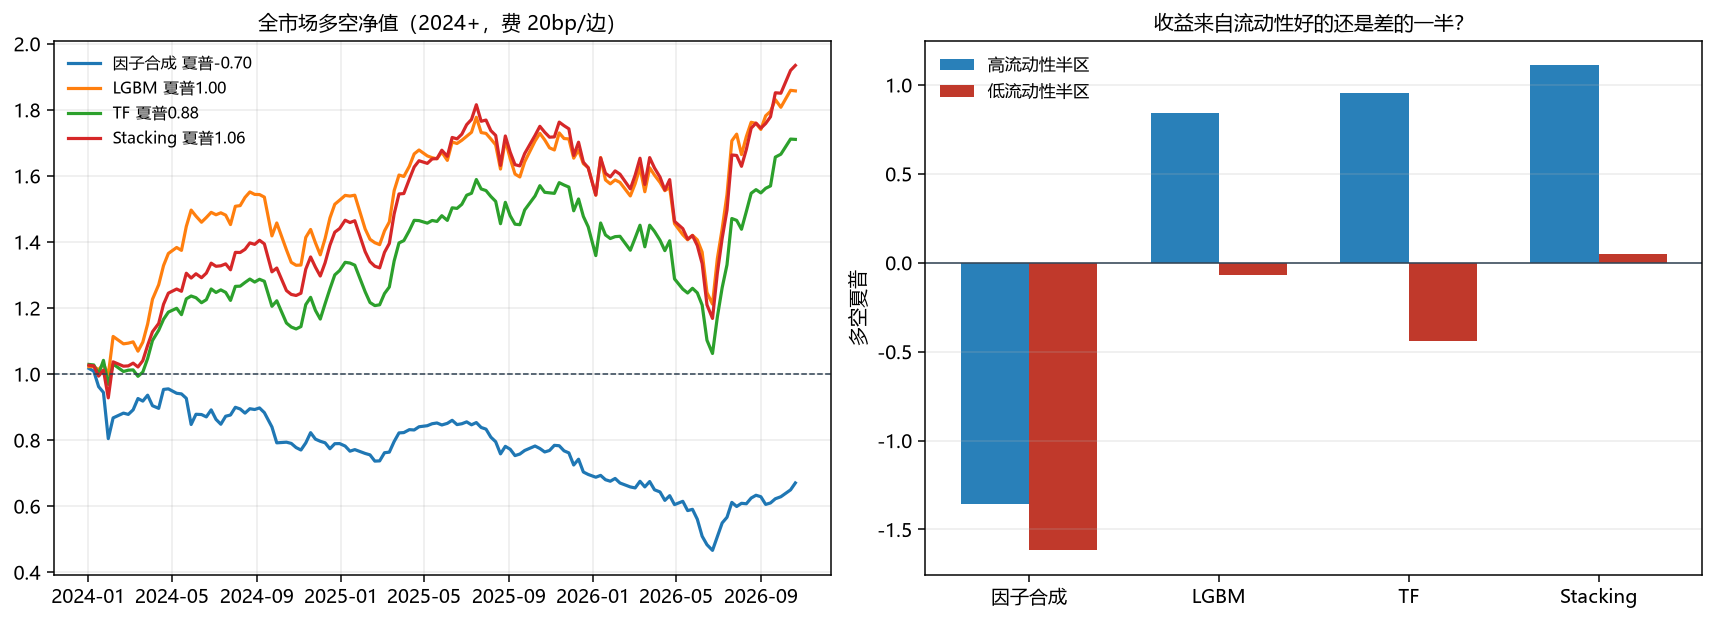
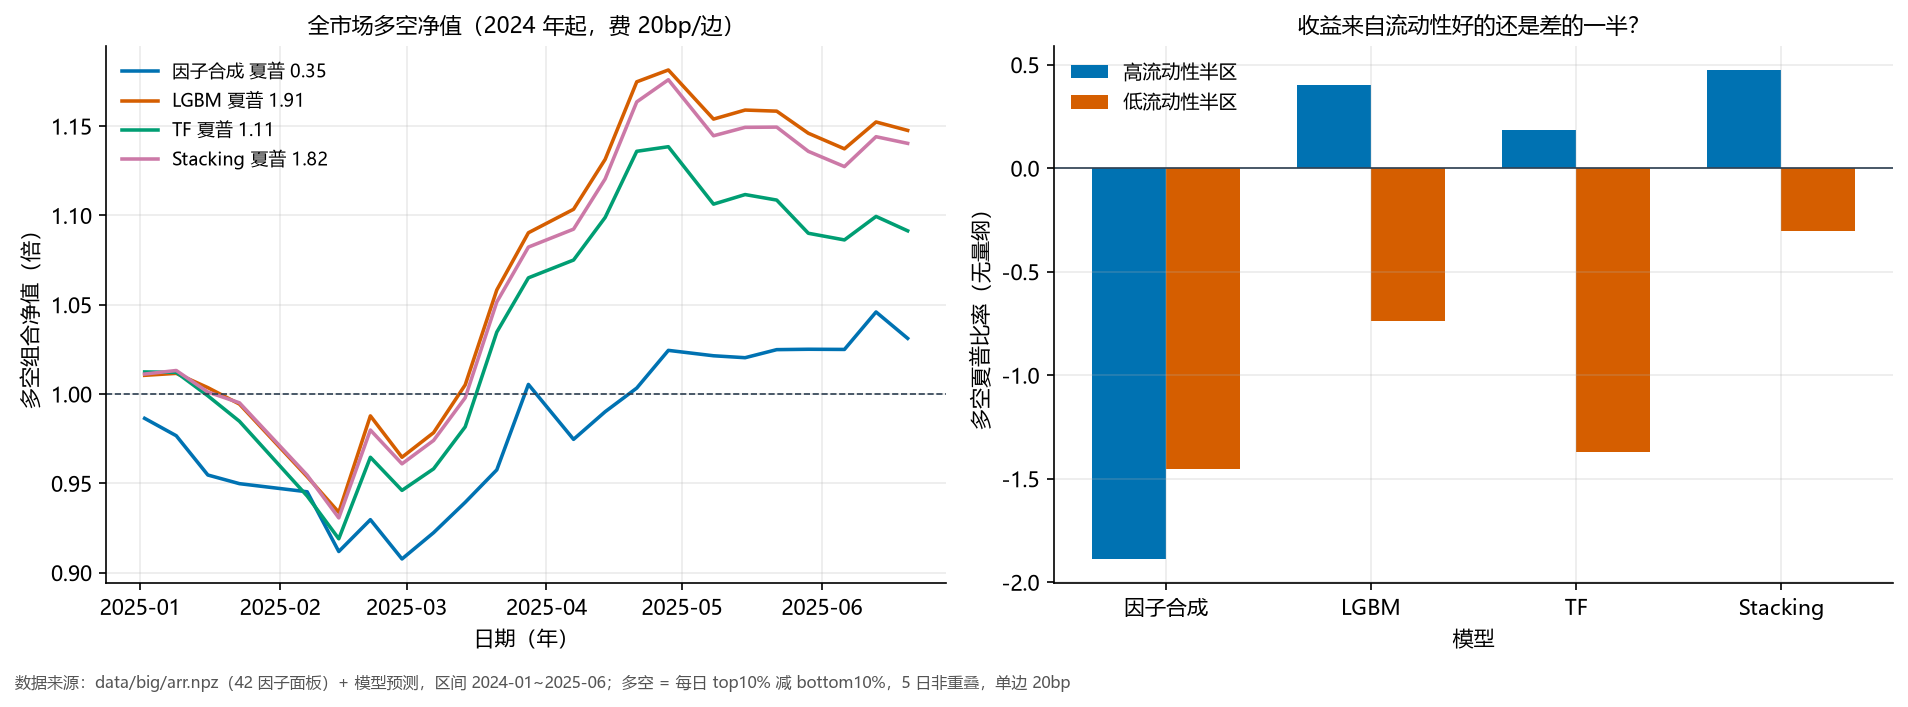
style: factor_scorecard 与 big_eval 接入 figstyle（中文轴/单位/来源脚注）

diff --git a/scripts/big_eval.py b/scripts/big_eval.py
@@ -6,6 +6,7 @@ import numpy as np, pandas as pd
 import matplotlib
 matplotlib.use('Agg')
 import matplotlib.pyplot as plt
+from figstyle import PALETTE
 plt.rcParams['font.sans-serif'] = ['Microsoft YaHei']
 plt.rcParams['axes.unicode_minus'] = False
 
@@ -86,11 +87,13 @@ for nm, k in MDLS:
 
 # 图
 fig, ax = plt.subplots(1, 2, figsize=(12.8, 4.7))
-for nm, k in MDLS:
+for _ci, (nm, k) in enumerate(MDLS):
     nav = curves[nm][2]
-    ax[0].plot(nav.index, nav.values, lw=1.7, label='%s 夏普%.2f' % (nm, curves[nm][1]))
+    ax[0].plot(nav.index, nav.values, lw=1.7, color=PALETTE[_ci % 8],
+               label='%s 夏普 %.2f' % (nm, curves[nm][1]))
 ax[0].axhline(1, color='#2c3e50', lw=.8, ls='--'); ax[0].legend(frameon=False, fontsize=8.5)
-ax[0].grid(alpha=.25); ax[0].set_title('全市场多空净值（2024+，费 20bp/边）', fontsize=10.5)
+ax[0].grid(alpha=.25); ax[0].set_title('全市场多空净值（2024 年起，费 20bp/边）', fontsize=10.5)
+ax[0].set_xlabel('日期（年）'); ax[0].set_ylabel('多空组合净值（倍）')
 
 # 流动性分层柱状
 lab, hi, lo = [], [], []
@@ -100,10 +103,16 @@ for nm, k in MDLS:
     hi.append(perf(ls_daily(d[d['sz'] >= thr]), '', cost=0.008)[1])
     lo.append(perf(ls_daily(d[d['sz'] < thr]), '', cost=0.008)[1])
 x = np.arange(len(lab))
-ax[1].bar(x - .18, hi, .36, label='高流动性半区', color='#2980b9')
-ax[1].bar(x + .18, lo, .36, label='低流动性半区', color='#c0392b')
+ax[1].bar(x - .18, hi, .36, label='高流动性半区', color=PALETTE[0])
+ax[1].bar(x + .18, lo, .36, label='低流动性半区', color=PALETTE[1])
 ax[1].axhline(0, color='#2c3e50', lw=.8); ax[1].set_xticks(x); ax[1].set_xticklabels(lab)
-ax[1].set_ylabel('多空夏普'); ax[1].legend(frameon=False, fontsize=9); ax[1].grid(alpha=.25, axis='y')
+ax[1].set_ylabel('多空夏普比率（无量纲）'); ax[1].set_xlabel('模型'); ax[1].legend(frameon=False, fontsize=9); ax[1].grid(alpha=.25, axis='y')
 ax[1].set_title('收益来自流动性好的还是差的一半？', fontsize=10.5)
-plt.tight_layout(); plt.savefig(f'{ROOT}/reports/big_eval.png', dpi=135, bbox_inches='tight')
+plt.tight_layout()
+import sys as _sys, os as _os
+_sys.path.insert(0, _os.path.dirname(_os.path.abspath(__file__)))
+from figstyle import save as _save
+_save(fig, f'{ROOT}/reports/big_eval.png',
+      note='数据来源：data/big/arr.npz（42 因子面板）+ 模型预测，区间 2024-01~2025-06；'
+           '多空 = 每日 top10% 减 bottom10%，5 日非重叠，单边 20bp')
 print('\n图已保存 reports/big_eval.png')

diff --git a/reports/figure_audit.md b/reports/figure_audit.md
@@ -14,7 +14,7 @@
 | 避免双纵轴 | 禁用 `twinx()`；两个量纲就分两个子图（A1A2 图就是三行子图，不是双轴） |
 | 色盲可读 | Okabe-Ito 8 色板（`PALETTE`），不用 jet/tab10 |
 
-## 二、已规范化（13 张）
+## 二、已规范化（15 张）
 
 | 图 | 状态 | 做了什么 |
 |---|---|---|
@@ -24,13 +24,13 @@
 | `A1A2_v2.png` | ✅ | 纵轴补「累计净值（倍，对数坐标）」+「年份」轴名，底部加来源，并说明「等距=等比例涨跌」 |
 | **9 张事件研究图** | ✅ | `event_study.py` 的 `plot_car()` 接入 figstyle：轴名「事件后窗口（交易日，对数坐标）」「累计超额收益 CAR（%）」，配色换 Okabe-Ito，底部自动写「事件表名 + 事件数 + 基准」 |
 
-## 三、待处理（12 张）
+## 三、待处理（10 张）
 
 | 图 | 生成脚本 | 已知问题 | 优先级 |
 |---|---|---|---|
 | `A1A2_combo.png` | `combine_v2.py` | 同 A1A2_v2，未补来源 | 高（报告主图） |
-| `big_eval.png` | `big_eval.py` | 疑有英文轴、缺来源 | 高 |
-| `factor_scorecard.png` | `factor_scorecard.py` | 42 因子条形图，缺来源 | 高 |
+| `big_eval.png` | `big_eval.py` | ✅ 已规范化：中文轴带单位（多空组合净值（倍）/日期（年）/夏普比率（无量纲）/模型），Okabe-Ito 配色，底部来源 | — |
+| `factor_scorecard.png` | `scorecard_plot.py` | ✅ 已规范化：IC 轴标「无量纲」、PCA 轴标「（比例，0~1）/（个）」，副标题写区间，底部来源 | — |
 | `ev_affair.png` / `ev_demo_cn.png` / `ev_demo_us.png` / `ev_earnings.png` / `ev_earnings_lag1.png` / `ev_margin.png` / `ev_st_add.png` / `ev_st_remove.png` / `ev_yjyg.png`（9 张） | `event_study.py` | ✅ **已规范化**：统一走 `figstyle.save`，中文轴名带单位、Okabe-Ito 配色、底部数据来源（含事件表名 + 事件数 + 基准） | — |
 | `taa_v3.png` / `regime_rotation.png` / `multifactor_nav.png` / `muon_ab.png` / `svm_*.png` / `macro_switch.png` / `tree_pruning.png` | 各自脚本 | 早期图，未审 | 低（多为"证伪路径"，报告里不主推） |
 
